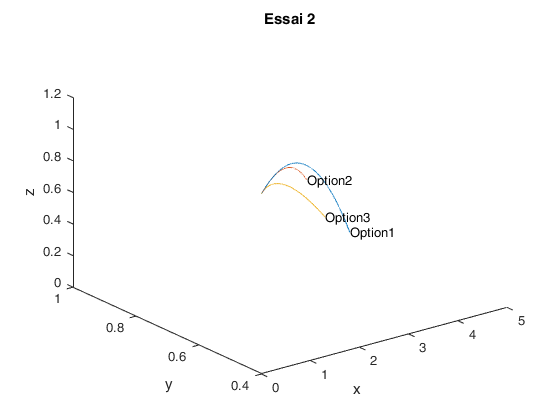
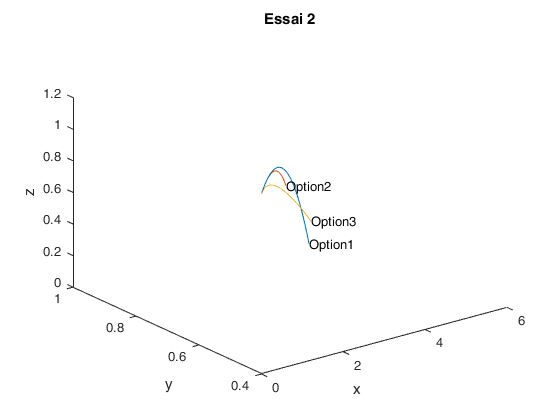
Changements finaux avec DeltaT

diff --git a/Main.m b/Main.m
@@ -1,12 +1,12 @@
 % Essai #1
- 
-rbi_e1 = [0; 0.5; 1.1];
-vbi_e1 = [4; 0; 0.8];
-wbi_e1 = [0; -70; 0];
-
-[coup_e1_1, tf_e1_1, rbf_e1_1, vbf_e1_1] = Devoir2(Variables.option1, rbi_e1, vbi_e1, wbi_e1)
-[coup_e1_2, tf_e1_2, rbf_e1_2, vbf_e1_2] = Devoir2(Variables.option2, rbi_e1, vbi_e1, wbi_e1)
-[coup_e1_3, tf_e1_3, rbf_e1_3, vbf_e1_3] = Devoir2(Variables.option3, rbi_e1, vbi_e1, wbi_e1)
+%  
+% rbi_e1 = [0; 0.5; 1.1];
+% vbi_e1 = [4; 0; 0.8];
+% wbi_e1 = [0; -70; 0];
+% 
+% [coup_e1_1, tf_e1_1, rbf_e1_1, vbf_e1_1] = Devoir2(Variables.option1, rbi_e1, vbi_e1, wbi_e1)
+% [coup_e1_2, tf_e1_2, rbf_e1_2, vbf_e1_2] = Devoir2(Variables.option2, rbi_e1, vbi_e1, wbi_e1)
+% [coup_e1_3, tf_e1_3, rbf_e1_3, vbf_e1_3] = Devoir2(Variables.option3, rbi_e1, vbi_e1, wbi_e1)
 
 % % Essai #2
 % 
@@ -19,7 +19,7 @@ wbi_e1 = [0; -70; 0];
 % [coup_e2_3, tf_e2_3, rbf_e2_3, vbf_e2_3] = Devoir2(Variables.option3, rbi_e2, vbi_e2, wbi_e2)
 
 % % Essai #3
-% 
+
 % rbi_e3 = [2.74; 0.5; 1.14];
 % vbi_e3 = [-5; 0; 0.2];
 % wbi_e3 = [0; 100; 0];
@@ -27,16 +27,16 @@ wbi_e1 = [0; -70; 0];
 % [coup_e3_1, tf_e3_1, rbf_e3_1, vbf_e3_1] = Devoir2(Variables.option1, rbi_e3, vbi_e3, wbi_e3)
 % [coup_e3_2, tf_e3_2, rbf_e3_2, vbf_e3_2] = Devoir2(Variables.option2, rbi_e3, vbi_e3, wbi_e3)
 % [coup_e3_3, tf_e3_3, rbf_e3_3, vbf_e3_3] = Devoir2(Variables.option3, rbi_e3, vbi_e3, wbi_e3)
-% 
+
 % % Essai #4
 % 
-% rbi_e4 = [0; 0.3; 1];
-% vbi_e4 = [10; -2; 0.2];
-% wbi_e4 = [0; 10; -100];
-% 
-% [coup_e4_1, tf_e4_1, rbf_e4_1, vbf_e4_1] = Devoir2(Variables.option1, rbi_e4, vbi_e4, wbi_e4)
-% [coup_e4_2, tf_e4_2, rbf_e4_2, vbf_e4_2] = Devoir2(Variables.option2, rbi_e4, vbi_e4, wbi_e4)
-% [coup_e4_3, tf_e4_3, rbf_e4_3, vbf_e4_3] = Devoir2(Variables.option3, rbi_e4, vbi_e4, wbi_e4)
+rbi_e4 = [0; 0.3; 1];
+vbi_e4 = [10; -2; 0.2];
+wbi_e4 = [0; 10; -100];
+
+[coup_e4_1, tf_e4_1, rbf_e4_1, vbf_e4_1] = Devoir2(Variables.option1, rbi_e4, vbi_e4, wbi_e4)
+[coup_e4_2, tf_e4_2, rbf_e4_2, vbf_e4_2] = Devoir2(Variables.option2, rbi_e4, vbi_e4, wbi_e4)
+[coup_e4_3, tf_e4_3, rbf_e4_3, vbf_e4_3] = Devoir2(Variables.option3, rbi_e4, vbi_e4, wbi_e4)
 
 
 

diff --git a/Devoir2.m b/Devoir2.m
@@ -1,10 +1,24 @@
 function [coup, tf, rbf, vbf] = Devoir2(option, rbi, vbi, wbi)
-    DeltaT = 0.0001;
-    if (option == Variables.option1)
-        [rbf, vbf, tf, coup] = Simulation.simulation(rbi, vbi, wbi, DeltaT, Variables.option1);
-    elseif (option == Variables.option2)
-        [rbf, vbf, tf, coup] = Simulation.simulation(rbi, vbi, wbi, DeltaT, Variables.option2);
-    elseif (option == Variables.option3)
-        [rbf, vbf, tf, coup] = Simulation.simulation(rbi, vbi, wbi, DeltaT, Variables.option3);
+    DeltaT = 0.01;
+    erreur = 1; %chiffre arbitraire 
+    rbf1 = [0, 0, 0];
+
+    while(erreur > 0.001)
+        DeltaT = DeltaT / 2;
+        rbf = Simulation.simulation(rbi, vbi, wbi, DeltaT, option, false);
+        estPareil = comparerVecteurs(rbf1, [0, 0, 0]);
+        if(~estPareil)
+            erreur = norm(rbf - rbf1);
+        end
+        rbf1 = rbf;
+    end
+    [rbf, vbf, tf, coup] = Simulation.simulation(rbi, vbi, wbi, DeltaT, option, true);
+end
+
+function estPareil = comparerVecteurs(vecteur1, vecteur2)
+    if(vecteur1(1) == vecteur2(1) && vecteur1(2) == vecteur2(2) && vecteur1(3) == vecteur2(3))
+        estPareil = true;
+    else
+        estPareil = false;
     end
 end

diff --git a/Simulation.m b/Simulation.m
@@ -1,6 +1,6 @@
 classdef Simulation    
     methods (Static)
-        function [rbf, vbf, tf, coup] = simulation(rbi, vbi, wbi, DeltaT, option)
+        function [rbf, vbf, tf, coup] = simulation(rbi, vbi, wbi, DeltaT, option, avecGraphe)
             q0 = [vbi(1) vbi(2) vbi(3) ...
 				  rbi(1) rbi(2) rbi(3) ...
 				  wbi(1) wbi(2) wbi(3)];
@@ -17,7 +17,9 @@ classdef Simulation
             vbf = [q0(1) q0(2) q0(3)];
             rbf = [q0(4) q0(5) q0(6)];
             sizeTrajectoire = size(trajectoire);
-            Outils.genererGraph(trajectoire, sizeTrajectoire(1), option);
+            if(avecGraphe)
+                Outils.genererGraphe(trajectoire, sizeTrajectoire(1), option);
+            end
         end
     end
 end

diff --git a/Outils.m b/Outils.m
@@ -1,6 +1,6 @@
 classdef Outils
     methods (Static)
-        function genererGraph(trajectoire, size, option) 
+        function genererGraphe(trajectoire, size, option) 
             X = zeros(size, 1);
             Y = zeros(size, 1);
             Z = zeros(size, 1);
@@ -14,10 +14,10 @@ classdef Outils
             xlabel('x');
             ylabel('y');
             zlabel('z');
-            title('Essai 1');
+            % title('Essai 1');
             % title('Essai 2');
             % title('Essai 3');
-            % title('Essai 4');
+            title('Essai 4');
         end
         
         function qs = SEDRK4t0(q0, DeltaT, option)
